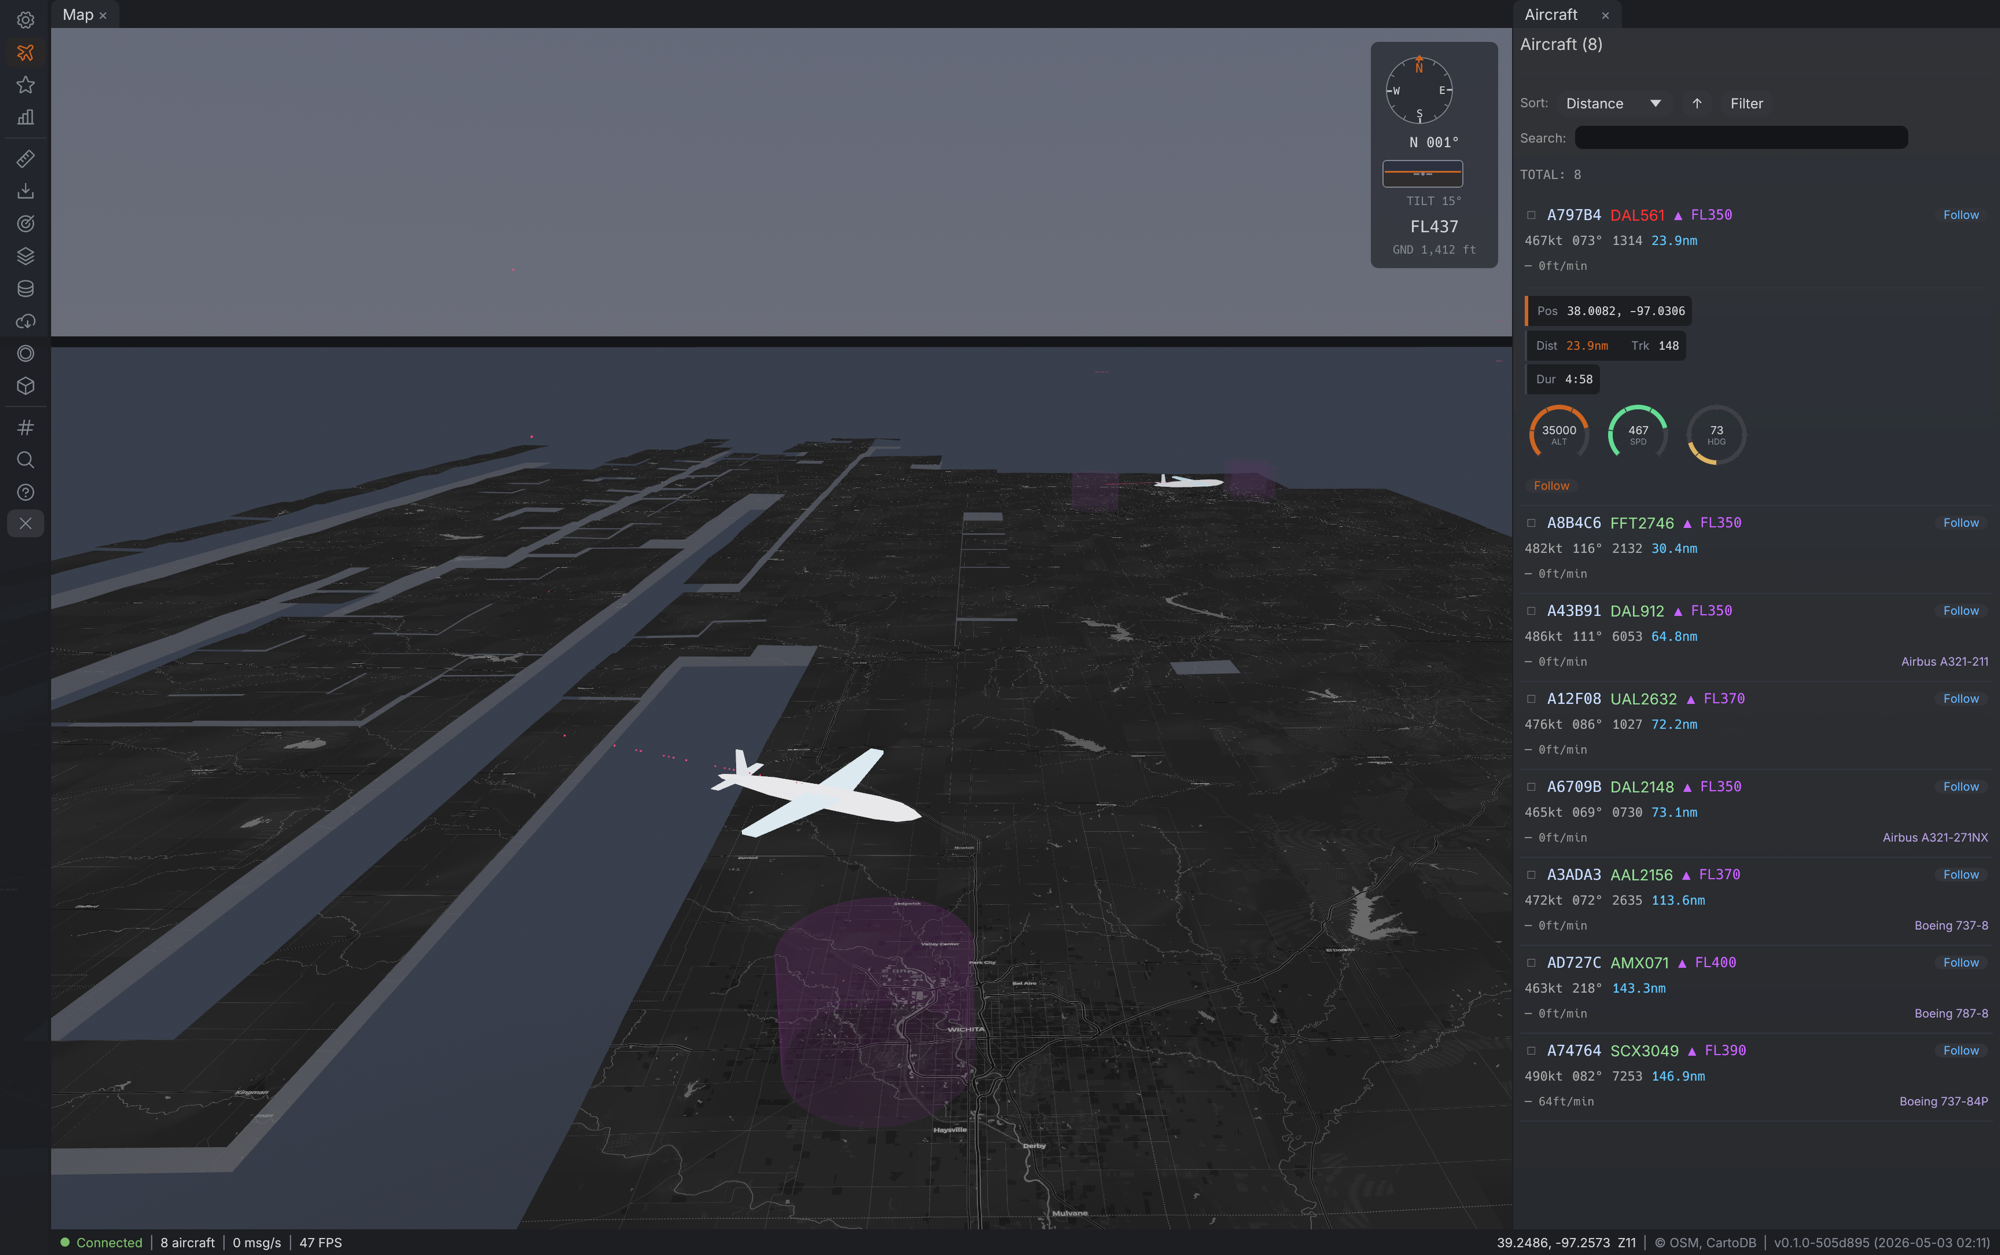
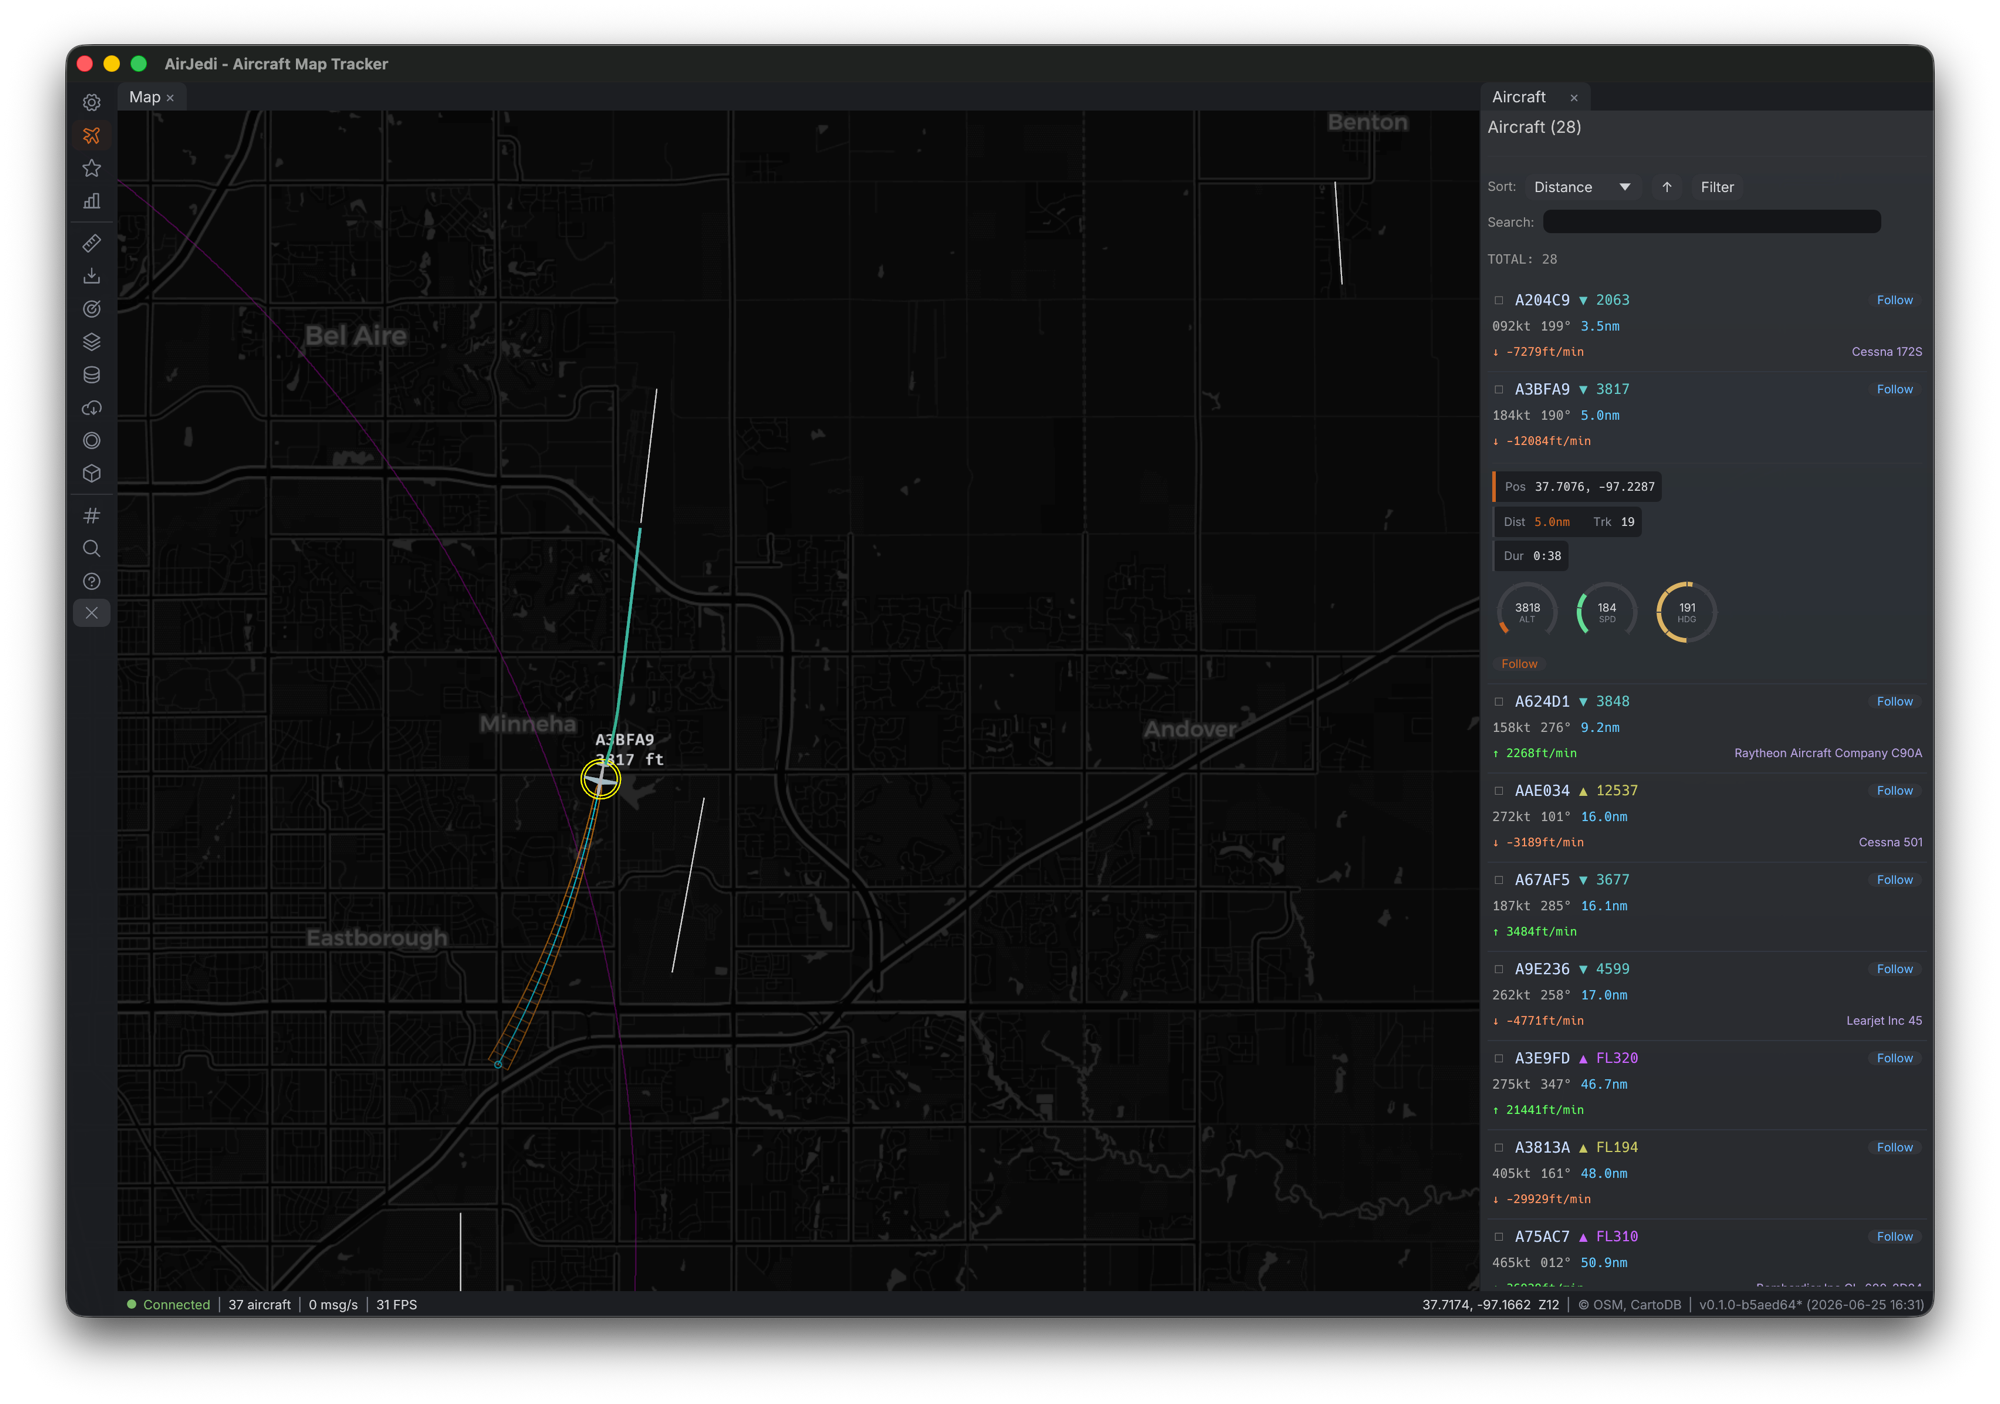
Fix blank edge tiles by computing viewport-aware tile radius
- Add +1 buffer to compute_tile_radius for sub-tile camera offset
- Replace hardcoded TILE_DOWNLOAD_RADIUS with computed radius in
  request_tiles_at_location and all callers
- Request tiles during continuous zoom-out when the computed radius
  grows, gated by Local<u8> to avoid redundant requests
- Update README screenshot

diff --git a/src/zoom.rs b/src/zoom.rs
@@ -9,7 +9,7 @@ use crate::camera::MapCamera;
 use crate::constants::{self, ZOOM_DOWNGRADE_THRESHOLD, ZOOM_UPGRADE_THRESHOLD};
 use crate::dock;
 use crate::map::{MapState, ZoomState};
-use crate::tiles::{request_tiles_at_location, SpawnedTiles, TileFadeState};
+use crate::tiles::{compute_tile_radius, request_tiles_at_location, SpawnedTiles, TileFadeState};
 use crate::view3d;
 use crate::{clamp_latitude, clamp_longitude, ZoomDebugLogger};
 
@@ -147,6 +147,7 @@ fn apply_zoom_level_transition(
     spawned_tiles: &mut SpawnedTiles,
     download_events: &mut MessageWriter<DownloadSlippyTilesMessage>,
     download_status: &mut SlippyTileDownloadStatus,
+    radius: u8,
 ) {
     spawned_tiles.positions.clear();
     download_status.0.clear();
@@ -165,6 +166,7 @@ fn apply_zoom_level_transition(
         map_state.latitude,
         map_state.longitude,
         map_state.zoom_level,
+        radius,
         true,
     );
 }
@@ -186,6 +188,7 @@ pub(crate) fn handle_zoom(
     mut spawned_tiles: ResMut<SpawnedTiles>,
     view3d_state: Res<view3d::View3DState>,
     mut download_status: ResMut<SlippyTileDownloadStatus>,
+    mut last_requested_radius: Local<u8>,
 ) {
     // In 3D mode, scroll is handled by handle_3d_camera_controls
     if view3d_state.is_3d_active() || view3d_state.is_transitioning() {
@@ -324,6 +327,12 @@ pub(crate) fn handle_zoom(
         );
 
         // === Handle zoom level transition (scale old tiles, request new) ===
+        let radius = compute_tile_radius(
+            window.width(),
+            window.height(),
+            zoom_state.camera_zoom,
+            Some(&view3d_state),
+        );
         if zoom_level_changed {
             apply_zoom_level_transition(
                 old_tile_zoom,
@@ -332,11 +341,25 @@ pub(crate) fn handle_zoom(
                 &mut spawned_tiles,
                 &mut download_events,
                 &mut download_status,
+                radius,
             );
+            *last_requested_radius = radius;
             log_info!(
                 "  Requested new tiles at zoom level {}",
                 map_state.zoom_level.to_u8()
             );
+        } else if radius > *last_requested_radius {
+            download_events.write(DownloadSlippyTilesMessage {
+                tile_size: constants::DEFAULT_TILE_SIZE,
+                zoom_level: map_state.zoom_level,
+                coordinates: Coordinates::from_latitude_longitude(
+                    map_state.latitude,
+                    map_state.longitude,
+                ),
+                radius: Radius(radius),
+                use_cache: true,
+            });
+            *last_requested_radius = radius;
         }
 
         log_info!(
@@ -360,6 +383,7 @@ pub(crate) fn handle_pinch_zoom(
     mut spawned_tiles: ResMut<SpawnedTiles>,
     view3d_state: Res<view3d::View3DState>,
     mut download_status: ResMut<SlippyTileDownloadStatus>,
+    mut last_requested_radius: Local<u8>,
 ) {
     // In 3D mode, zoom is handled by handle_3d_camera_controls
     if view3d_state.is_3d_active() || view3d_state.is_transitioning() {
@@ -410,6 +434,12 @@ pub(crate) fn handle_pinch_zoom(
             map_state.latitude = clamp_latitude(new_lat);
             map_state.longitude = clamp_longitude(new_lon);
 
+            let radius = compute_tile_radius(
+                window.width(),
+                window.height(),
+                zoom_state.camera_zoom,
+                Some(&view3d_state),
+            );
             if zoom_level_changed {
                 apply_zoom_level_transition(
                     old_tile_zoom,
@@ -418,7 +448,21 @@ pub(crate) fn handle_pinch_zoom(
                     &mut spawned_tiles,
                     &mut download_events,
                     &mut download_status,
+                    radius,
                 );
+                *last_requested_radius = radius;
+            } else if radius > *last_requested_radius {
+                download_events.write(DownloadSlippyTilesMessage {
+                    tile_size: constants::DEFAULT_TILE_SIZE,
+                    zoom_level: map_state.zoom_level,
+                    coordinates: Coordinates::from_latitude_longitude(
+                        map_state.latitude,
+                        map_state.longitude,
+                    ),
+                    radius: Radius(radius),
+                    use_cache: true,
+                });
+                *last_requested_radius = radius;
             }
         }
     }

diff --git a/src/tiles.rs b/src/tiles.rs
@@ -347,15 +347,17 @@ pub(crate) fn compute_tile_radius(
             // Use whichever axis demands more tiles
             let max_ground_extent = far_ground_dist.max(half_width);
             let tile_world_size = constants::DEFAULT_TILE_PIXELS;
-            let tiles_needed = (max_ground_extent / tile_world_size).ceil() as u8;
+            let tiles_needed = (max_ground_extent / tile_world_size).ceil() as u8 + 1;
             return tiles_needed.clamp(3, 12);
         }
     }
 
     // 2D orthographic mode
+    // +1 accounts for the camera's sub-tile offset: when the camera sits near
+    // a tile edge, the far side needs one extra tile to avoid blank edges.
     let tile_screen_px = constants::DEFAULT_TILE_PIXELS * camera_zoom;
-    let half_tiles_x = (window_width / (2.0 * tile_screen_px)).ceil() as u8;
-    let half_tiles_y = (window_height / (2.0 * tile_screen_px)).ceil() as u8;
+    let half_tiles_x = (window_width / (2.0 * tile_screen_px)).ceil() as u8 + 1;
+    let half_tiles_y = (window_height / (2.0 * tile_screen_px)).ceil() as u8 + 1;
     half_tiles_x.max(half_tiles_y).clamp(3, 8)
 }
 
@@ -365,13 +367,14 @@ pub(crate) fn request_tiles_at_location(
     latitude: f64,
     longitude: f64,
     zoom_level: ZoomLevel,
+    radius: u8,
     use_cache: bool,
 ) {
     download_events.write(DownloadSlippyTilesMessage {
         tile_size: constants::DEFAULT_TILE_SIZE,
         zoom_level,
         coordinates: Coordinates::from_latitude_longitude(latitude, longitude),
-        radius: Radius(constants::TILE_DOWNLOAD_RADIUS),
+        radius: Radius(radius),
         use_cache,
     });
 }
@@ -391,6 +394,9 @@ fn handle_basemap_change(
     mut tile_asset_cache: ResMut<TileAssetCache>,
     mut download_events: MessageWriter<DownloadSlippyTilesMessage>,
     map_state: Res<MapState>,
+    zoom_state: Res<ZoomState>,
+    window_query: Query<&Window>,
+    view3d_state: Res<view3d::View3DState>,
     mut last_style: Local<Option<crate::config::BasemapStyle>>,
 ) {
     let current = basemap_state.style;
@@ -419,11 +425,17 @@ fn handle_basemap_change(
     download_status.0.clear();
     tile_asset_cache.entries.clear();
 
+    let radius = if let Ok(window) = window_query.single() {
+        compute_tile_radius(window.width(), window.height(), zoom_state.camera_zoom, Some(&view3d_state))
+    } else {
+        constants::TILE_DOWNLOAD_RADIUS
+    };
     request_tiles_at_location(
         &mut download_events,
         map_state.latitude,
         map_state.longitude,
         map_state.zoom_level,
+        radius,
         true,
     );
 }

diff --git a/src/input.rs b/src/input.rs
@@ -106,12 +106,18 @@ pub(crate) fn handle_pan_drag(
 
     if mouse_button.just_released(MouseButton::Left) {
         if drag_state.is_dragging {
-            // Final tile request at drag end position
+            let radius = compute_tile_radius(
+                window.width(),
+                window.height(),
+                zoom_state.camera_zoom,
+                Some(&view3d_state),
+            );
             request_tiles_at_location(
                 &mut download_events,
                 map_state.latitude,
                 map_state.longitude,
                 map_state.zoom_level,
+                radius,
                 true,
             );
             drag_state.last_tile_request_coords = Some((map_state.latitude, map_state.longitude));

diff --git a/src/main.rs b/src/main.rs
@@ -554,6 +554,7 @@ pub(crate) fn setup_map(
         map_state.latitude,
         map_state.longitude,
         map_state.zoom_level,
+        constants::TILE_DOWNLOAD_RADIUS,
         true,
     );
 

diff --git a/src/toolbar.rs b/src/toolbar.rs
@@ -237,6 +237,7 @@ pub fn render_toolbar(
                         map_state.latitude,
                         map_state.longitude,
                         map_state.zoom_level,
+                        crate::constants::TILE_DOWNLOAD_RADIUS,
                         false,
                     );
 